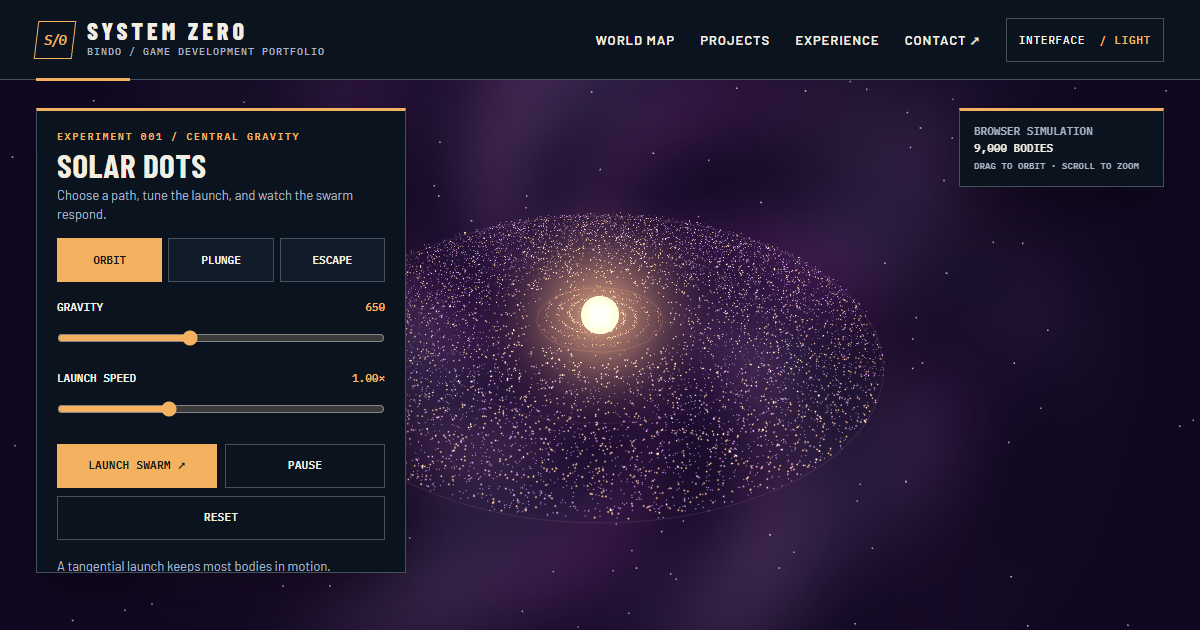
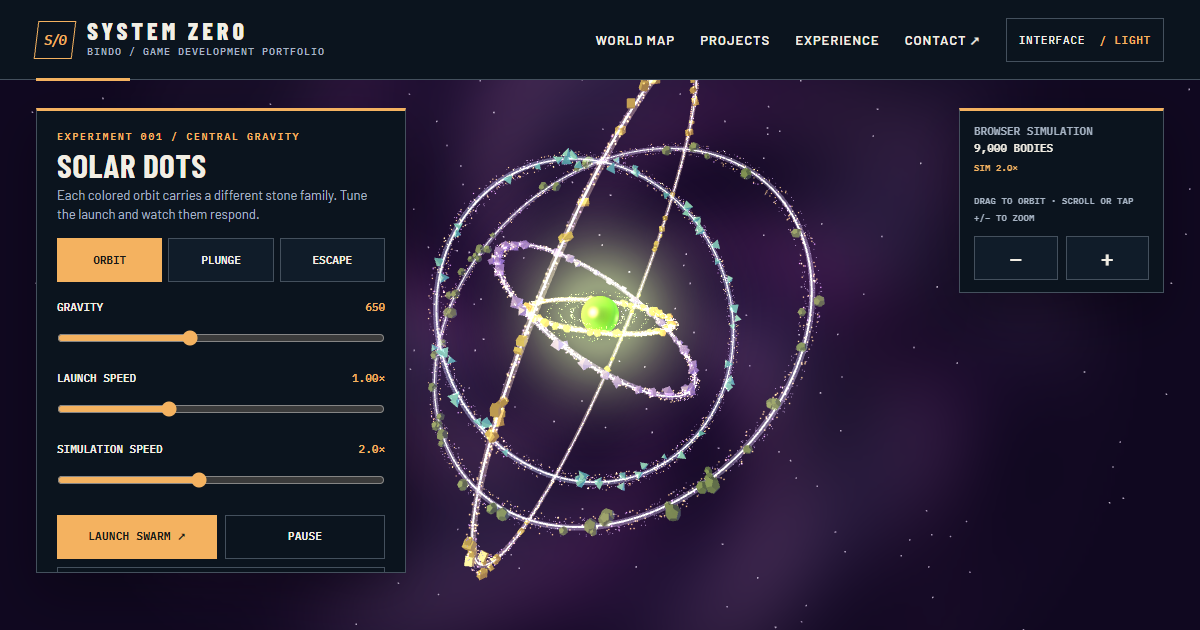
Give Solar DOTS an acid green and yellow sun

diff --git a/src/worlds/solar-dots/SolarVisual.ts b/src/worlds/solar-dots/SolarVisual.ts
@@ -52,6 +52,7 @@ export class SolarVisual {
 
     const particleTexture = this.trackTexture(makeRadialTexture(64, 5.4))
     const glowTexture = this.trackTexture(makeRadialTexture(128, 3.1))
+    const acidHaloTexture = this.trackTexture(makeHaloTexture(128))
     const nebulaTexture = this.trackTexture(makeNebulaTexture(256))
 
     this.dustPositions = new Float32Array(this.capacity * 3)
@@ -121,48 +122,48 @@ export class SolarVisual {
     this.scene.add(this.violetGlow)
 
     this.outerGlow = new THREE.Sprite(this.trackMaterial(new THREE.SpriteMaterial({
-      map: glowTexture,
-      color: 0xffa132,
+      map: acidHaloTexture,
+      color: 0x53ff00,
       transparent: true,
-      opacity: 0.61,
+      opacity: 0.78,
       depthWrite: false,
       depthTest: false,
       blending: THREE.AdditiveBlending,
     })))
-    this.outerGlow.scale.set(36, 36, 1)
+    this.outerGlow.scale.set(42, 42, 1)
     this.outerGlow.renderOrder = 4
     this.scene.add(this.outerGlow)
 
     this.core = new THREE.Mesh(
       this.trackGeometry(new THREE.SphereGeometry(CORE_RADIUS, 32, 20)),
       this.trackMaterial(new THREE.MeshPhongMaterial({
-        color: 0xffa73d,
-        emissive: 0xa1450e,
-        emissiveIntensity: 0.65,
-        specular: 0xffe9a8,
+        color: 0x83eb06,
+        emissive: 0x276800,
+        emissiveIntensity: 0.34,
+        specular: 0xeaff66,
         shininess: 58,
       })),
     )
     this.core.renderOrder = 5
     this.scene.add(this.core)
-    this.scene.add(new THREE.AmbientLight(0xffbd75, 0.62))
-    const coreLight = new THREE.DirectionalLight(0xffe6af, 2.2)
+    this.scene.add(new THREE.AmbientLight(0xd3efa4, 0.42))
+    const coreLight = new THREE.DirectionalLight(0xe8ff58, 1.1)
     coreLight.position.set(-7, 8, 11)
     this.scene.add(coreLight)
-    const coolFill = new THREE.DirectionalLight(0x8598d9, 0.78)
+    const coolFill = new THREE.DirectionalLight(0x8598d9, 0.35)
     coolFill.position.set(8, -5, -9)
     this.scene.add(coolFill)
 
     this.innerGlow = new THREE.Sprite(this.trackMaterial(new THREE.SpriteMaterial({
       map: glowTexture,
-      color: 0xffd88a,
+      color: 0xf7ff46,
       transparent: true,
-      opacity: 0.26,
+      opacity: 0.08,
       depthWrite: false,
       depthTest: false,
       blending: THREE.AdditiveBlending,
     })))
-    this.innerGlow.scale.set(8, 8, 1)
+    this.innerGlow.scale.set(7, 7, 1)
     this.innerGlow.renderOrder = 6
     this.scene.add(this.innerGlow)
 
@@ -262,9 +263,9 @@ export class SolarVisual {
     this.camera.lookAt(0, -15 * mobileCrop, 0)
 
     const breathe = Math.sin(this.elapsed * 2.1) * 0.035
-    this.outerGlow.scale.setScalar(36 * (1 + breathe))
+    this.outerGlow.scale.setScalar(42 * (1 + breathe))
     this.violetGlow.scale.setScalar(72 * (1 - breathe * 0.6))
-    this.innerGlow.scale.setScalar(8 * (1 + breathe * 0.6))
+    this.innerGlow.scale.setScalar(7 * (1 + breathe * 0.6))
     this.core.scale.setScalar(1 + breathe * 0.25)
     this.corona.rotation.y += frame * 0.12
   }
@@ -433,9 +434,10 @@ export class SolarVisual {
       positions[offset + 1] = (hash01(index * 7 + 4) - 0.5) * 0.36
       positions[offset + 2] = Math.sin(angle) * radius
       const falloff = 1 - (radius - 2.8) / 9
-      colors[offset] = 0.88 * falloff
-      colors[offset + 1] = 0.46 * falloff
-      colors[offset + 2] = 0.12 * falloff
+      const yellow = hash01(index * 7 + 5) > 0.48
+      colors[offset] = (yellow ? 0.94 : 0.2) * falloff
+      colors[offset + 1] = (yellow ? 0.94 : 0.98) * falloff
+      colors[offset + 2] = (yellow ? 0.1 : 0.025) * falloff
     }
     const geometry = this.trackGeometry(new THREE.BufferGeometry())
     geometry.setAttribute('position', new THREE.BufferAttribute(positions, 3))
@@ -519,6 +521,29 @@ function makeRadialTexture(size: number, falloff: number): THREE.DataTexture {
       pixels[offset + 1] = 255
       pixels[offset + 2] = 255
       pixels[offset + 3] = Math.round(Math.exp(-radiusSquared * falloff) * 255 * THREE.MathUtils.clamp(1 - radiusSquared, 0, 1))
+    }
+  }
+  const texture = new THREE.DataTexture(pixels, size, size, THREE.RGBAFormat)
+  texture.magFilter = THREE.LinearFilter
+  texture.minFilter = THREE.LinearFilter
+  texture.needsUpdate = true
+  return texture
+}
+
+function makeHaloTexture(size: number): THREE.DataTexture {
+  const pixels = new Uint8Array(size * size * 4)
+  for (let y = 0; y < size; y++) {
+    for (let x = 0; x < size; x++) {
+      const dx = ((x + 0.5) / size - 0.5) * 2
+      const dy = ((y + 0.5) / size - 0.5) * 2
+      const radiusSquared = dx * dx + dy * dy
+      const offset = (y * size + x) * 4
+      const hollowCenter = 1 - Math.exp(-radiusSquared * 90)
+      const haze = Math.exp(-radiusSquared * 4) * THREE.MathUtils.clamp(1 - radiusSquared, 0, 1)
+      pixels[offset] = 255
+      pixels[offset + 1] = 255
+      pixels[offset + 2] = 255
+      pixels[offset + 3] = Math.round(255 * hollowCenter * haze)
     }
   }
   const texture = new THREE.DataTexture(pixels, size, size, THREE.RGBAFormat)

diff --git a/src/app/AppShell.ts b/src/app/AppShell.ts
@@ -527,7 +527,7 @@ export class AppShell {
     if (push) history.pushState({ world: planet.slug }, '', pathForPlanet(planet))
     document.title = planet.title + ' | Saurabh Kundalwal'
     this.canvas.setAttribute('aria-label', planet.slug === 'event-horizon'
-      ? 'Solar DOTS gravity simulation with five colored orbital paths and varied stones around a gold central attractor. Drag to orbit the camera and scroll to zoom.'
+      ? 'Solar DOTS gravity simulation with five colored orbital paths and varied stones around an acid green and yellow sun. Drag to orbit the camera and scroll to zoom.'
       : planet.title + ' project world')
     if (!this.renderer || !this.space) {
       this.showFallback(planet)

diff --git a/docs/SOLAR_DOTS_BUILD_PLAN.md b/docs/SOLAR_DOTS_BUILD_PLAN.md
@@ -21,7 +21,7 @@ Keep `/worlds/event-horizon/` as the canonical URL so existing links and history
 
 ## The first minute
 
-1. **0–5 seconds — visual hook.** Show a dark purple orbital field, a bright gold center, and moving particles. One sentence explains the action: “Launch a swarm and shape its orbit.” A clear Start button leaves the source and video links visible.
+1. **0–5 seconds — visual hook.** Show a dark purple orbital field, an acid green and yellow center, and moving particles. One sentence explains the action: “Launch a swarm and shape its orbit.” A clear Start button leaves the source and video links visible.
 2. **5–20 seconds — first input.** One click or tap launches a seeded ring of bodies. The result is readable without knowing physics: bodies orbit, fall inward, or escape.
 3. **20–40 seconds — cause and effect.** Two controls change central gravity and launch speed. The next launch responds immediately; a Reset button restores the chosen preset. Show small **orbiting / captured / escaped** counters.
 4. **40–60 seconds — reason to stay or explore.** Offer another preset and an optional “keep the swarm in orbit for 10 seconds” challenge. Show a compact **How I built the original** panel with the Unity DOTS source, original video, and a route back to Projects.
@@ -33,7 +33,7 @@ No mandatory tutorial, account, leaderboard, or timed interruption. Every preset
 - **Presets:** Stable Orbit (near-circular launch), Solar Plunge (slower launch), and Escape Path (faster launch). Each changes the initial conditions, not the underlying rule. Save the selected preset in the URL query only after route and Back/Forward behavior are tested.
 - **Controls:** Start, Launch swarm, Gravity, Launch speed, Pause/Resume, Reset, and camera orbit/zoom. The first view uses safe defaults; advanced controls can sit behind a small “Experiment” disclosure.
 - **Feedback:** Color or trail length communicates speed, and a brief pulse marks capture or escape. Counters describe the browser simulation. Add a short text explanation when a preset succeeds or fails.
-- **Visual fidelity:** Recreate the video's dense orbital silhouette and gold core against a dark violet scene. Keep the site's interface light/dark toggle limited to UI panels; the simulation remains dark in both modes. Avoid expensive postprocessing until the core movement is smooth.
+- **Visual fidelity:** Recreate the video's dense orbital silhouette against a dark violet scene, with an acid green and yellow core as the current art direction. Keep the site's interface light/dark toggle limited to UI panels; the simulation remains dark in both modes. Avoid expensive postprocessing until the core movement is smooth.
 - **Portfolio evidence:** A persistent **Original Unity DOTS source** link and **Watch original demo** link sit in the world panel. A small comparison states: “Original: Unity ECS/Burst. This interactive world: Three.js.” The world must never hide the author's name, experience, Projects, or Contact access.
 
 ## Simulation model
